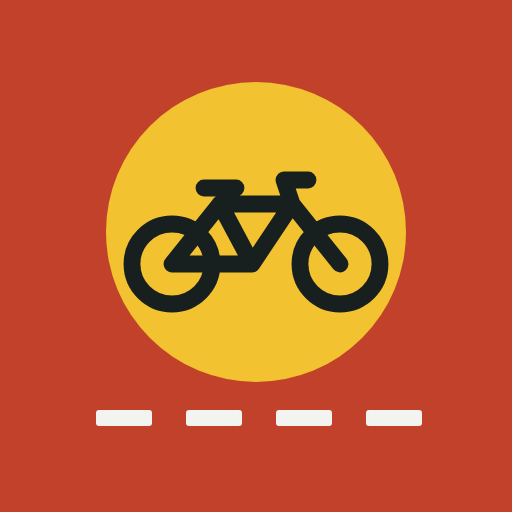
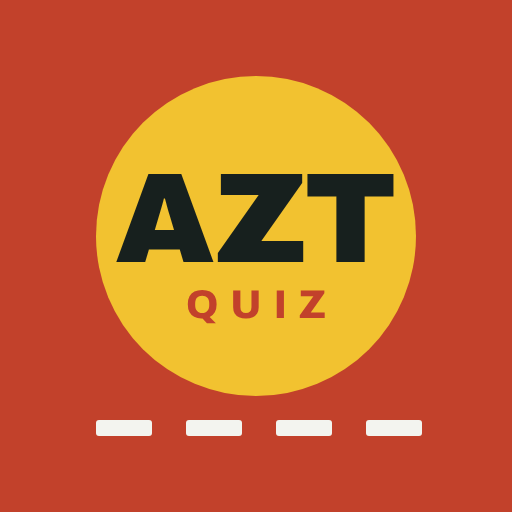
AZT Mobiliteitsquiz: te voet, fiets en auto
Startpagina met drie vervoermiddelen. Nieuwe quizzen van tien vragen voor voetgangers en automobilisten; de fietsquizzen blijven onder 'Met de fiets'. Antwoorden staan in willekeurige volgorde. Nieuwe naam en icoon.

Claude-Session: https://claude.ai/code/session_01D6nt3R1xac4CiEd7r1Xnoy

diff --git a/index.html b/index.html
@@ -8,11 +8,11 @@
 <link rel="icon" href="icons/icon.svg" type="image/svg+xml">
 <link rel="icon" href="icons/favicon-32.png" sizes="32x32" type="image/png">
 <link rel="apple-touch-icon" href="icons/apple-touch-icon.png">
-<meta name="apple-mobile-web-app-title" content="Fietsquiz">
+<meta name="apple-mobile-web-app-title" content="AZT quiz">
 <meta name="mobile-web-app-capable" content="yes">
 <meta name="apple-mobile-web-app-capable" content="yes">
-<title>Fietsquiz Op Weg</title>
-<meta name="description" content="Kies je fiets en test je kennis van de verkeersregels in een korte quiz.">
+<title>AZT Mobiliteitsquiz</title>
+<meta name="description" content="Te voet, met de fiets of met de auto: test je kennis van de wegcode en verkeersveiligheid in een korte quiz.">
 <link rel="preconnect" href="https://fonts.googleapis.com">
 <link rel="preconnect" href="https://fonts.gstatic.com" crossorigin>
 <link rel="stylesheet" href="https://fonts.googleapis.com/css2?family=Archivo:wdth,wght@62..125,500..900&family=Atkinson+Hyperlegible:ital,wght@0,400;0,700;1,400&display=swap">
@@ -106,6 +106,13 @@ h1 .hl { color: var(--lane); }
 .install-btn svg { width: 15px; height: 15px; }
 .ios-hint { margin-top: 4px; padding: 12px 14px; border-radius: 12px; background: var(--surface); border: 2px dashed var(--line); font-size: 15px; display: grid; grid-template-columns: 1fr auto; gap: 10px; align-items: start; }
 .ios-hint button { border: 0; background: transparent; cursor: pointer; color: var(--muted); font-size: 20px; line-height: 1; padding: 0 4px; }
+.modes { display: grid; gap: 12px; }
+.mode { grid-template-columns: 96px 1fr auto; padding-block: 16px; }
+.mode .ico { width: 96px; height: 64px; }
+.mode .ico svg { width: 80px; height: 48px; }
+.mode .name { font-size: 26px; }
+.mode.m-voet .ico { background: var(--ok-soft); color: var(--ok); }
+.mode.m-fiets .ico { background: var(--lane-soft); color: var(--lane); }
 .foot { color: var(--muted); font-size: 13px; margin-top: 26px; }
 .foot a { color: inherit; }
 
@@ -176,13 +183,13 @@ h1 .hl { color: var(--lane); }
   <header class="top">
     <div class="brand">
       <span class="dot" aria-hidden="true"><svg viewBox="0 0 24 24" fill="none" stroke="#fff" stroke-width="2.2" stroke-linecap="round" stroke-linejoin="round"><circle cx="6" cy="16" r="3.5"/><circle cx="18" cy="16" r="3.5"/><path d="M6 16l4-7h5l3 7M10 9l2 7"/></svg></span>
-      Op weg met de fiets
+      AZT Mobiliteitsquiz
     </div>
     <button class="install-btn" id="installBtn" hidden>
       <svg viewBox="0 0 24 24" fill="none" stroke="currentColor" stroke-width="2.6" stroke-linecap="round" stroke-linejoin="round" aria-hidden="true"><path d="M12 4v11M7 10l5 5 5-5M5 20h14"/></svg>Installeer app
     </button>
-    <button class="back" id="backBtn" hidden aria-label="Terug naar keuze">
-      <svg width="16" height="16" viewBox="0 0 24 24" fill="none" stroke="currentColor" stroke-width="2.4" stroke-linecap="round" stroke-linejoin="round"><path d="M15 6l-6 6 6 6"/></svg>Ander voertuig
+    <button class="back" id="backBtn" hidden >
+      <svg width="16" height="16" viewBox="0 0 24 24" fill="none" stroke="currentColor" stroke-width="2.4" stroke-linecap="round" stroke-linejoin="round"><path d="M15 6l-6 6 6 6"/></svg><span id="backLabel">Terug</span>
     </button>
   </header>
   <div class="ios-hint" id="iosHint" hidden role="status"><span>Tik onderaan in Safari op het deelicoon en kies <strong>Zet op beginscherm</strong>.</span><button id="iosClose" aria-label="Sluiten">×</button></div>
@@ -195,11 +202,65 @@ const ICONS = {
   ebike: `<svg viewBox="0 0 70 42" fill="none" stroke="currentColor" stroke-width="3" stroke-linecap="round" stroke-linejoin="round"><circle cx="14" cy="28" r="10"/><circle cx="56" cy="28" r="10"/><path d="M14 28l12-15h18l12 15M26 13l8 15H14M34 28l10-15M44 13l-2-6h6M22 9h8"/><path d="M33 15l-3 6h5l-3 6" stroke-width="2.4"/></svg>`,
   speed: `<svg viewBox="0 0 70 42" fill="none" stroke="currentColor" stroke-width="3" stroke-linecap="round" stroke-linejoin="round"><circle cx="20" cy="28" r="10"/><circle cx="58" cy="28" r="10"/><path d="M20 28l11-15h16l11 15M31 13l7 15H20M38 28l9-15M47 13l-2-6h6M28 9h7"/><path d="M2 14h10M4 21h7M2 28h5" stroke-width="2.4"/></svg>`,
   bakfiets: `<svg viewBox="0 0 70 42" fill="none" stroke="currentColor" stroke-width="3" stroke-linecap="round" stroke-linejoin="round"><circle cx="12" cy="32" r="7"/><circle cx="58" cy="28" r="10"/><path d="M3 14h22l-3 12H6z"/><path d="M22 26l8 6h10l18-4M40 32l6-17h-6M46 15l3-7h5M36 11h8"/></svg>`,
+  voet: `<svg viewBox="0 0 70 42" fill="none" stroke="currentColor" stroke-width="3" stroke-linecap="round" stroke-linejoin="round"><circle cx="36" cy="6" r="4"/><path d="M35 12l-3 13-6 12M32 25l6 5 2 8M34 15l-7 7M34 15l7 5"/></svg>`,
+  auto: `<svg viewBox="0 0 70 42" fill="none" stroke="currentColor" stroke-width="3" stroke-linecap="round" stroke-linejoin="round"><path d="M10 30H5v-8l4-3 9-2 7-8h20l9 8 7 2 2 3v8h-5M24 30h22"/><circle cx="17" cy="30" r="6"/><circle cx="53" cy="30" r="6"/><path d="M26 17h26M38 9v8"/></svg>`,
   longtail: `<svg viewBox="0 0 70 42" fill="none" stroke="currentColor" stroke-width="3" stroke-linecap="round" stroke-linejoin="round"><circle cx="11" cy="28" r="9"/><circle cx="59" cy="28" r="9"/><path d="M59 28L50 14H30M30 14l-8 14h14l14-14M30 14l-3-7M24 7h7M11 28l11-16M50 14h16M52 20v-6M62 20v-6"/><path d="M50 9h14" stroke-width="4"/></svg>`
 };
 const ARROW = `<svg viewBox="0 0 24 24" fill="none" stroke="currentColor" stroke-width="2.6" stroke-linecap="round" stroke-linejoin="round"><path d="M5 12h14M13 6l6 6-6 6"/></svg>`;
 
 const VEHICLES = {
+  voet: {
+    name: "Te voet", sub: "Wandelen, of te voet naar bus, tram of trein", mode: true,
+    tip: "Kijk links, rechts en nog eens links, en maak oogcontact met chauffeurs voor je oversteekt.",
+    q: [
+      { t: "wegcode", q: "Je staat aan een zebrapad zonder verkeerslichten en wil oversteken. Wie heeft voorrang?", a: ["De auto's, tot ze stoppen", "Jij: bestuurders moeten je laten oversteken", "Wie het eerst aan het zebrapad is"], c: 1,
+        x: "Bestuurders moeten voetgangers laten oversteken die op het zebrapad lopen of duidelijk willen oversteken. Maak toch oogcontact voor je vertrekt." },
+      { t: "wegcode", q: "Er ligt een zebrapad op 15 meter van jou. Waar steek je over?", a: ["Op het zebrapad", "Waar het je uitkomt", "Tussen de geparkeerde auto's"], c: 0,
+        x: "Ligt er een zebrapad op minder dan 20 meter, dan moet je dat gebruiken." },
+      { t: "wegcode", q: "Er is geen voetpad en geen berm. Aan welke kant van de weg loop je?", a: ["Rechts, met het verkeer mee", "Links, zodat je het verkeer ziet aankomen", "In het midden van de weg"], c: 1,
+        x: "Moet je op de rijbaan lopen, dan loop je links, tegen het verkeer in, tenzij dat minder veilig is. Zo zie je wat er op je af komt." },
+      { t: "veiligheid", q: "Je wil oversteken en je bent een bericht aan het lezen. Wat doe je?", a: ["Verder lezen, je hoort de auto's wel", "Gsm wegsteken, kijken en dan pas oversteken", "Sneller stappen"], c: 1,
+        x: "Wie op zijn scherm kijkt, ziet en hoort verkeer veel minder goed. Kijk links, rechts en nog eens links voor je oversteekt." },
+      { t: "wegcode", q: "Je loopt in een woonerf. Wat geldt daar?", a: ["Voetgangers mogen de hele breedte van de weg gebruiken", "Voetgangers moeten op de stoep blijven", "Auto's hebben er voorrang"], c: 0,
+        x: "In een woonerf mogen voetgangers de hele breedte van de weg gebruiken en mogen kinderen er spelen. Bestuurders rijden er maximaal 20 km/u." },
+      { t: "veiligheid", q: "Je wandelt in het donker naar huis. Hoe zorg je dat je gezien wordt?", a: ["Donkere kleren zijn prima onder de straatlantaarns", "Draag lichte kleren en iets reflecterends, zoals een fluohesje of reflectoren", "Hard lopen"], c: 1,
+        x: "Een chauffeur ziet een voetganger in donkere kleren pas heel laat. Reflecterend materiaal valt al van ver op in de koplampen." },
+      { t: "wegcode", q: "Er is geen voetpad en geen berm, wel een fietspad. Mag je daarop lopen?", a: ["Nee, nooit", "Ja, maar je moet fietsers voorrang geven", "Ja, en fietsers moeten voor jou uitwijken"], c: 1,
+        x: "Zonder voetpad of berm mag je het fietspad gebruiken, maar fietsers hebben er voorrang. Loop zo dicht mogelijk aan de rand." },
+      { t: "veiligheid", q: "Een vrachtwagen of bus wil afslaan bij het zebrapad. Wat doe je?", a: ["Meteen oversteken, je hebt voorrang", "Wachten tot je zeker bent dat de chauffeur je gezien heeft", "Vlak naast de cabine gaan staan"], c: 1,
+        x: "Vlak voor of naast een vrachtwagen of bus sta je in de dode hoek. Voorrang hebben helpt niet als de chauffeur je niet ziet." },
+      { t: "wegcode", q: "De rode lichten aan een overweg knipperen, maar de slagbomen zijn nog open. Wat doe je?", a: ["Snel nog oversteken", "Wachten: bij knipperende rode lichten mag je niet oversteken", "Oversteken als je geen trein ziet"], c: 1,
+        x: "Zodra de rode lichten knipperen of de bel rinkelt, mag je de overweg niet meer op. Een trein kan niet uitwijken of snel stoppen." },
+      { t: "veiligheid", q: "Het voetgangerslicht springt op rood als je halverwege bent. Wat doe je?", a: ["Rustig verder naar de overkant", "Terugkeren naar waar je vandaan kwam", "Blijven staan op de streep in het midden"], c: 0,
+        x: "Als je al aan het oversteken bent, loop je rustig door naar de overkant. Begin niet meer aan een oversteek als het licht al rood is." }
+    ]
+  },
+  auto: {
+    name: "Met de auto", sub: "Als bestuurder, alleen of samen", mode: true,
+    tip: "Verwacht fietsers en voetgangers bij elke afslag. Een blik over je schouder kost niets.",
+    q: [
+      { t: "wegcode", q: "Wat is in Vlaanderen de maximumsnelheid buiten de bebouwde kom als er geen borden staan?", a: ["50 km/u", "70 km/u", "90 km/u"], c: 1,
+        x: "Sinds 2017 geldt in Vlaanderen buiten de bebouwde kom standaard 70 km/u, tenzij borden iets anders aangeven." },
+      { t: "wegcode", q: "Je rijdt in een fietsstraat achter een fietser. Wat mag je doen?", a: ["Inhalen als er plaats is", "Achter de fietser blijven: inhalen mag niet en je rijdt max 30 km/u", "Toeteren zodat de fietser opzij gaat"], c: 1,
+        x: "In een fietsstraat zijn fietsers de baas. Auto's mogen er niet sneller dan 30 km/u en mogen fietsers niet inhalen." },
+      { t: "wegcode", q: "Je slaat rechtsaf en op het fietspad rechts van je rijdt een fietser rechtdoor. Wie heeft voorrang?", a: ["Jij, want je zat er eerst", "De fietser die rechtdoor rijdt", "Wie het snelst is"], c: 1,
+        x: "Wie afslaat, moet voorrang geven aan fietsers en voetgangers die rechtdoor gaan. Kijk in je spiegel en over je schouder." },
+      { t: "veiligheid", q: "Hoeveel zijdelingse afstand houd je minstens als je een fietser inhaalt?", a: ["30 centimeter", "Minstens 1 meter", "Afstand maakt niet uit als je traag rijdt"], c: 1,
+        x: "Houd minstens een meter afstand, buiten de bebouwde kom liefst nog meer. Een fietser kan uitwijken voor een put of windstoot." },
+      { t: "veiligheid", q: "Hoe open je het portier best als je geparkeerd staat?", a: ["Snel, dan sta je minder lang in de weg", "Met je hand die het verst van de deur zit, zodat je vanzelf achterom kijkt", "Pas als iemand toetert"], c: 1,
+        x: "Met die 'Dutch reach' draai je je lichaam en zie je fietsers die van achter komen. Zo voorkom je een portierongeval." },
+      { t: "wegcode", q: "Je staat stil voor een rood licht. Mag je je gsm vasthouden?", a: ["Ja, je rijdt niet", "Nee, ook stilstaand voor een rood licht neem je deel aan het verkeer", "Alleen om te bellen"], c: 1,
+        x: "Ook voor een rood licht of in de file ben je aan het rijden. Een gsm vasthouden is dan verboden. Gebruik een houder of handsfree." },
+      { t: "wegcode", q: "Wat is de alcohollimiet voor een gewone autobestuurder?", a: ["0,2 promille", "0,5 promille", "0,8 promille"], c: 1,
+        x: "De limiet is 0,5 promille. Voor professionele chauffeurs geldt 0,2 promille. Het veiligst is: wie rijdt, drinkt niet." },
+      { t: "wegcode", q: "Twee rijstroken lopen samen tot één. Wanneer voeg je in?", a: ["Zo vroeg mogelijk", "Pas bij de versmalling, om beurten (ritsen)", "Wie het grootst is, gaat eerst"], c: 1,
+        x: "Ritsen is verplicht: rijd door tot aan de versmalling en voeg daar om beurten in. Zo gebruikt iedereen de ruimte en loopt het vlotter." },
+      { t: "wegcode", q: "Je kind is 1,25 meter groot. Hoe vervoer je het in de auto?", a: ["Met gewoon de gordel", "In een aangepast kinderzitje", "Op schoot"], c: 1,
+        x: "Kinderen kleiner dan 1,35 meter moeten in een aangepast kinderzitje of zitverhoger, afgestemd op hun lengte of gewicht." },
+      { t: "wegcode", q: "Je wil een schoolstraat in tijdens de schooluren. Wat geldt er?", a: ["Je mag er stapvoets door", "Gemotoriseerd verkeer mag er tijdens die uren niet in, op een paar uitzonderingen na", "Alleen als je een kind afzet"], c: 1,
+        x: "Een schoolstraat is bij het begin en einde van de schooldag afgesloten voor auto's. Zet je kind een straat verder af en laat het het laatste stukje stappen." }
+    ]
+  },
   fiets: {
     name: "Gewone fiets", sub: "Stadsfiets, racefiets, mountainbike",
     tip: "Zorg dat je fietslichten het altijd doen: een set oplaadbare lampjes in je tas redt je avondrit.",
@@ -338,25 +399,59 @@ let state = null;
 
 function esc(s) { return s.replace(/[&<>"]/g, c => ({ "&": "&amp;", "<": "&lt;", ">": "&gt;", '"': "&quot;" }[c])); }
 
+let screen = "home";
+
+function vehicleCard(id, extra = "") {
+  const v = VEHICLES[id] || MODES[id];
+  return `
+          <button class="vehicle ${extra}" data-id="${id}">
+            <span class="ico" aria-hidden="true">${ICONS[id === "fietsen" ? "fiets" : id]}</span>
+            <span class="meta"><span class="name">${v.name}</span><span class="sub">${v.sub}</span></span>
+            <span class="go" aria-hidden="true">${ARROW}</span>
+          </button>`;
+}
+const MODES = { fietsen: { name: "Met de fiets", sub: "Fiets, e-bike, speed pedelec, bakfiets of longtail" } };
+const BIKES = ["fiets", "ebike", "speed", "bakfiets", "longtail"];
+
 function renderHome() {
   state = null;
+  screen = "home";
   backBtn.hidden = true;
   app.innerHTML = `
     <section class="screen">
       <div class="hero">
-        <div class="eyebrow">Mobiliteitsquiz</div>
+        <div class="eyebrow">Mobiliteitsactie</div>
+        <h1>Hoe <span class="hl">verkeersfit</span> ben jij?</h1>
+        <p class="lede">Hoe kom jij naar het werk? Kies hieronder en test in tien vragen hoe goed je de wegcode en de risico's onderweg kent.</p>
+      </div>
+      <div class="lane-rule" aria-hidden="true"></div>
+      <p class="pick-label">Hoe kom jij naar het werk?</p>
+      <div class="vehicles modes">
+        ${vehicleCard("voet", "mode m-voet")}
+        ${vehicleCard("fietsen", "mode m-fiets")}
+        ${vehicleCard("auto", "mode m-auto")}
+      </div>
+      <p class="foot">Gebaseerd op de Belgische wegcode. Meer info op <a href="https://www.wegcode.be" target="_blank" rel="noopener">wegcode.be</a>.</p>
+    </section>`;
+  app.querySelectorAll(".vehicle").forEach(b => b.addEventListener("click", () => b.dataset.id === "fietsen" ? showBikes() : start(b.dataset.id)));
+  renderInstall();
+}
+
+function renderBikes() {
+  state = null;
+  screen = "bikes";
+  backBtn.hidden = false;
+  app.innerHTML = `
+    <section class="screen">
+      <div class="hero">
+        <div class="eyebrow">Met de fiets</div>
         <h1>Hoe <span class="hl">fietsfit</span> ben jij?</h1>
         <p class="lede">Kies waarmee je naar hier fietst en test in tien vragen hoe goed je de regels en trucjes voor jouw fiets kent.</p>
       </div>
       <div class="lane-rule" aria-hidden="true"></div>
       <p class="pick-label">Waarmee rijd jij?</p>
       <div class="vehicles">
-        ${Object.entries(VEHICLES).map(([id, v]) => `
-          <button class="vehicle" data-id="${id}">
-            <span class="ico" aria-hidden="true">${ICONS[id]}</span>
-            <span class="meta"><span class="name">${v.name}</span><span class="sub">${v.sub}</span></span>
-            <span class="go" aria-hidden="true">${ARROW}</span>
-          </button>`).join("")}
+        ${BIKES.map(id => vehicleCard(id)).join("")}
       </div>
       <p class="foot">Gebaseerd op de Belgische wegcode. Meer info op <a href="https://www.wegcode.be" target="_blank" rel="noopener">wegcode.be</a>.</p>
     </section>`;
@@ -364,8 +459,16 @@ function renderHome() {
   renderInstall();
 }
 
+function showBikes() {
+  try { history.replaceState(null, "", "#fietsen"); } catch (e) {}
+  iosHint.hidden = true;
+  renderBikes();
+  window.scrollTo({ top: 0 });
+}
+
 function start(id) {
   state = { id, i: 0, score: 0, answers: [] };
+  screen = "quiz";
   try { history.replaceState(null, "", "#" + id); } catch (e) {}
   backBtn.hidden = false;
   renderInstall();
@@ -378,6 +481,8 @@ function renderQuestion() {
   const v = VEHICLES[state.id];
   const item = v.q[state.i];
   const total = v.q.length;
+  // antwoorden in willekeurige volgorde, zodat het juiste antwoord niet altijd op dezelfde plek staat
+  state.order = item.a.map((_, k) => k).sort(() => Math.random() - 0.5);
   app.innerHTML = `
     <section class="screen">
       <div class="qhead">
@@ -388,7 +493,7 @@ function renderQuestion() {
       <span class="tag ${item.t || "fiets"}">${item.t === "wegcode" ? "Wegcode" : item.t === "veiligheid" ? "Verkeersveiligheid" : "Jouw " + v.name.toLowerCase()}</span>
       <h2 class="question">${esc(item.q)}</h2>
       <div class="answers">
-        ${item.a.map((t, k) => `<button class="answer" data-k="${k}"><span class="k">${"ABC"[k]}</span><span>${esc(t)}</span></button>`).join("")}
+        ${state.order.map((k, pos) => `<button class="answer" data-k="${k}"><span class="k">${"ABC"[pos]}</span><span>${esc(item.a[k])}</span></button>`).join("")}
       </div>
       <div id="after"></div>
     </section>`;
@@ -401,7 +506,8 @@ function choose(k) {
   const ok = k === item.c;
   if (ok) state.score++;
   state.answers.push(ok);
-  app.querySelectorAll(".answer").forEach((b, idx) => {
+  app.querySelectorAll(".answer").forEach(b => {
+    const idx = +b.dataset.k;
     b.disabled = true;
     if (idx === item.c) b.classList.add("right");
     else if (idx === k) b.classList.add("wrong");
@@ -421,7 +527,8 @@ function choose(k) {
 function renderResult() {
   const v = VEHICLES[state.id];
   const total = v.q.length, s = state.score;
-  const verdict = s === total ? "Fietsfit met glans" : s >= total - 3 ? "Goed op weg" : "Nog wat bijtrappen";
+  const bike = !v.mode;
+  const verdict = s === total ? (bike ? "Fietsfit met glans" : "Verkeersfit met glans") : s >= total - 3 ? "Goed op weg" : (bike ? "Nog wat bijtrappen" : "Nog wat oefenen");
   app.innerHTML = `
     <section class="screen result">
       <div class="eyebrow">${v.name} · jouw score</div>
@@ -430,12 +537,12 @@ function renderResult() {
       <div class="lane-rule" aria-hidden="true"></div>
       <div class="tipbox"><div class="eyebrow">Tip voor onderweg</div><p>${esc(v.tip)}</p></div>
       <div class="review">${v.q.map((it, k) => `<div><span class="mark ${state.answers[k] ? "y" : "n"}">${state.answers[k] ? "✓" : "✕"}</span><span><b>${esc(it.q)}</b><br>${esc(it.a[it.c])}</span></div>`).join("")}</div>
-      <button class="cta" id="again">Probeer een ander voertuig ${ARROW}</button>
+      <button class="cta" id="again">${bike ? "Probeer een andere fiets" : "Kies een ander vervoermiddel"} ${ARROW}</button>
       <button class="cta alt" id="share">Kopieer link naar deze quiz ${ARROW}</button>
       <div class="copied" id="copied" role="status"></div>
     </section>`;
   window.scrollTo({ top: 0 });
-  document.getElementById("again").addEventListener("click", goHome);
+  document.getElementById("again").addEventListener("click", bike ? showBikes : goHome);
   document.getElementById("share").addEventListener("click", () => {
     const url = location.href.split("#")[0] + "#" + state.id;
     const msg = document.getElementById("copied");
@@ -448,7 +555,7 @@ function goHome() {
   renderHome();
   window.scrollTo({ top: 0 });
 }
-backBtn.addEventListener("click", goHome);
+backBtn.addEventListener("click", () => (screen === "quiz" && !VEHICLES[state.id].mode) ? showBikes() : goHome());
 
 // Installeren als app
 let installPrompt = null;
@@ -477,7 +584,7 @@ if ("serviceWorker" in navigator) {
 }
 
 const initial = (location.hash || "").slice(1);
-if (VEHICLES[initial]) start(initial); else renderHome();
+if (VEHICLES[initial]) start(initial); else if (initial === "fietsen") renderBikes(); else renderHome();
 </script>
 
 </body>

diff --git a/sw.js b/sw.js
@@ -1,5 +1,5 @@
 // Bewaart de quiz op het toestel zodat hij ook zonder internet opent.
-const CACHE = "fietsquiz-v2";
+const CACHE = "azt-quiz-v3";
 const FILES = ["./", "./index.html", "./manifest.webmanifest", "./icons/icon-192.png", "./icons/icon-512.png", "./icons/apple-touch-icon.png", "./icons/favicon-32.png"];
 
 self.addEventListener("install", e => {

diff --git a/README.md b/README.md
@@ -1,9 +1,9 @@
-# Mobiliteitsquiz
+# AZT Mobiliteitsquiz
 
-Fietsquiz voor de mobiliteitsactie: kies je voertuig (gewone fiets, elektrische fiets, speed pedelec, bakfiets of longtail) en beantwoord tien vragen over je fiets, de Belgische wegcode en verkeersveiligheid.
+Quiz voor de mobiliteitsactie. Kies hoe je naar het werk komt (te voet, met de fiets of met de auto) en beantwoord tien vragen over de Belgische wegcode en verkeersveiligheid. Bij de fiets kies je eerst je type: gewone fiets, elektrische fiets, speed pedelec, bakfiets of longtail.
 
 Online via GitHub Pages: https://obscuritatis.github.io/mobiliteitsquiz/
 
-Rechtstreeks naar één quiz: voeg `#fiets`, `#ebike`, `#speed`, `#bakfiets` of `#longtail` toe aan het adres.
+Rechtstreeks naar één quiz: voeg `#voet`, `#auto`, `#fietsen` (keuze van fiets), `#fiets`, `#ebike`, `#speed`, `#bakfiets` of `#longtail` toe aan het adres.
 
-Alles zit in één bestand: `index.html`. Vragen aanpassen kan in het blok `VEHICLES` in dat bestand.
+De quiz zit in `index.html`; vragen aanpassen kan in het blok `VEHICLES`. De app is installeerbaar (manifest, iconen in `icons/`, `sw.js` voor offline gebruik).
